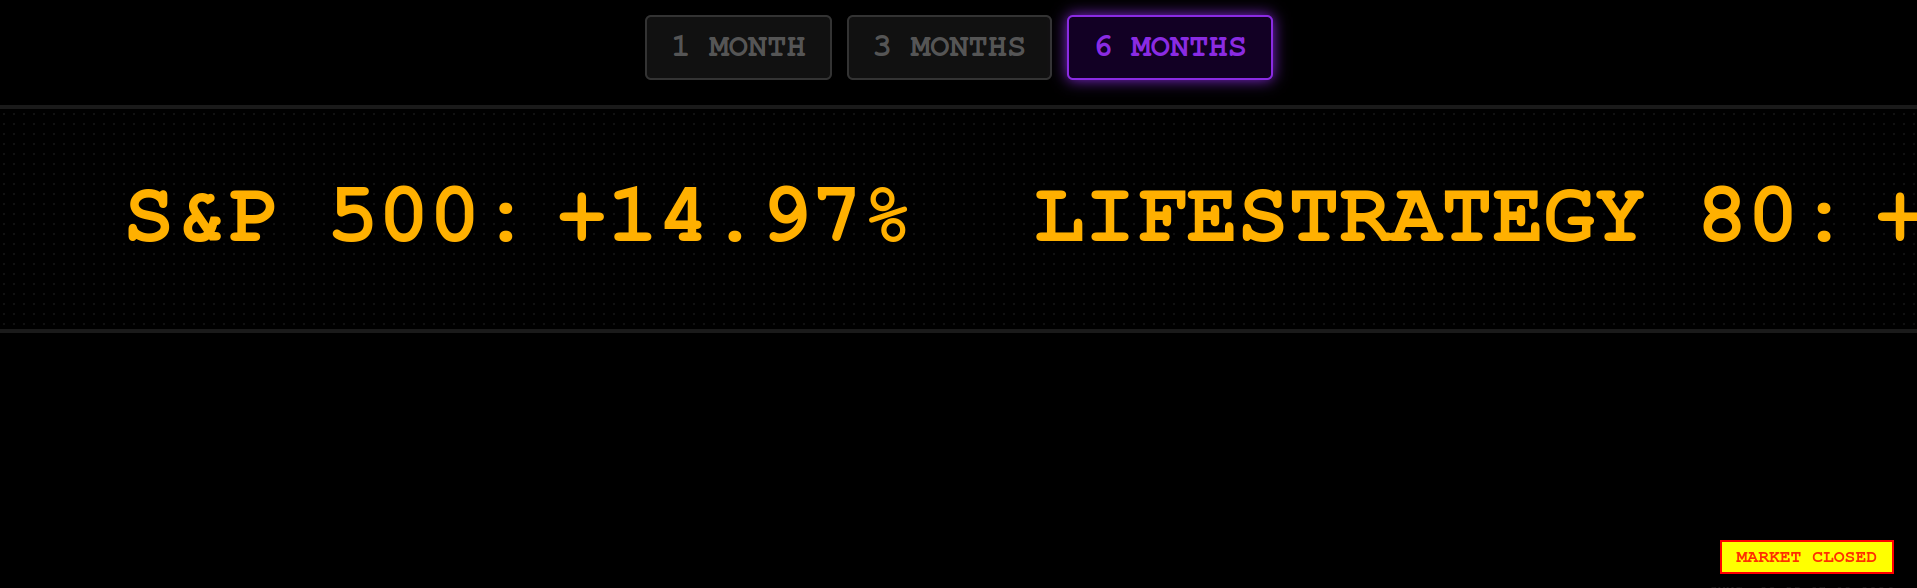
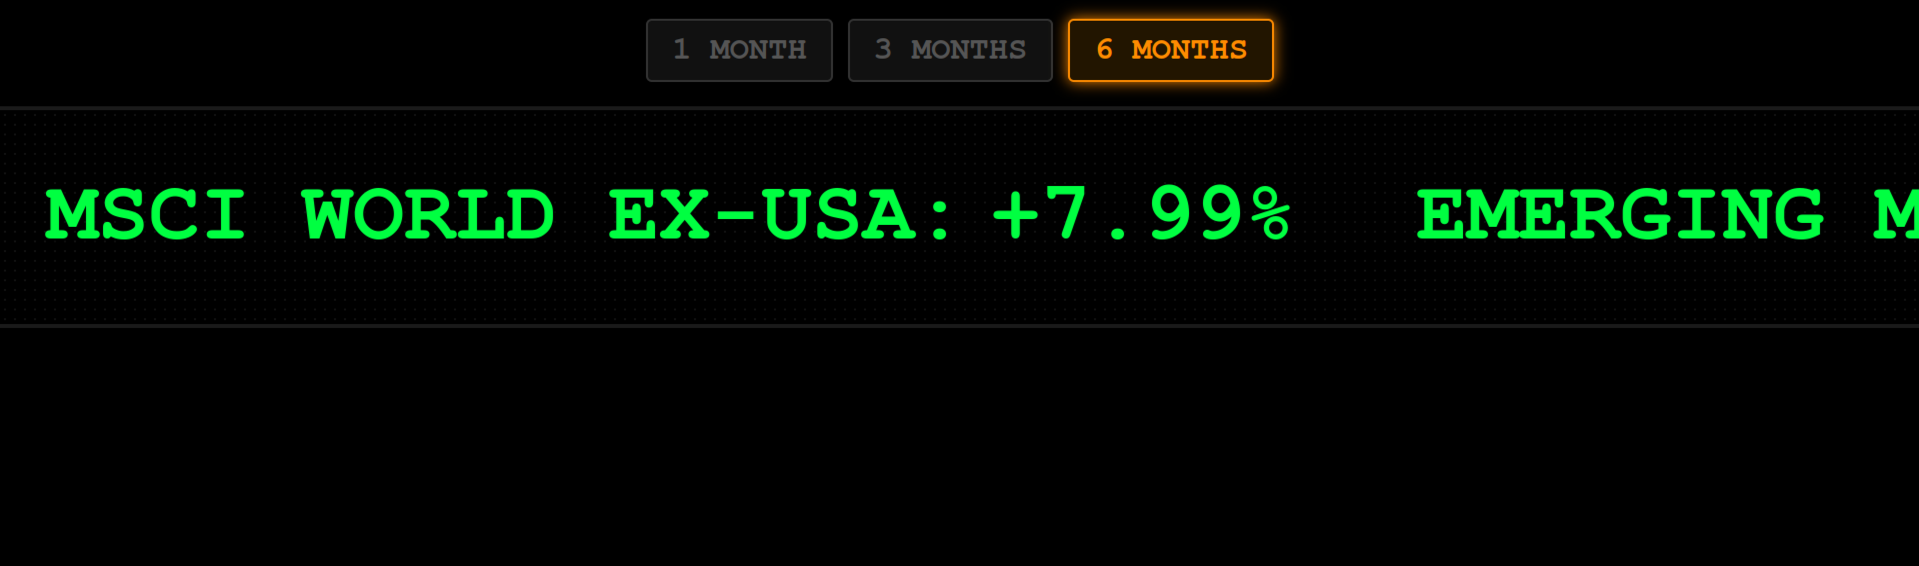
fix

diff --git a/esp32/README.md b/esp32/README.md
@@ -5,9 +5,9 @@
 
 <div align="center">
 
-Firmware and 3D enclosure for my personal financial ticker.
+Firmware and 3D enclosure for my personal financial ticker
 <br><br>
-Built for the <strong>Waveshare ESP32-C6 LCD 1.47"</strong>.
+Built for the <strong>Waveshare ESP32-C6 LCD 1.47"</strong>
 
 </div>
 
@@ -28,7 +28,7 @@ Built for the <strong>Waveshare ESP32-C6 LCD 1.47"</strong>.
 
 <div align="center">
 
-For more nformation, check the official <strong>Waveshare product page</strong>.
+For more information, check the official <strong>Waveshare product page</strong>
 
 </div>
 

diff --git a/data/README.md b/data/README.md
@@ -5,7 +5,7 @@
 
 <div align="center">
 
-Dynamic data files (CSV/JSON) continuously read and updated by background scripts for ESP32 display, Web Dashboards, and Spreadsheets
+Dynamic data files (CSV/JSON) continuously read and updated by background scripts for ESP32 display, Web Dashboards and Spreadsheets
 
 </div>
 
